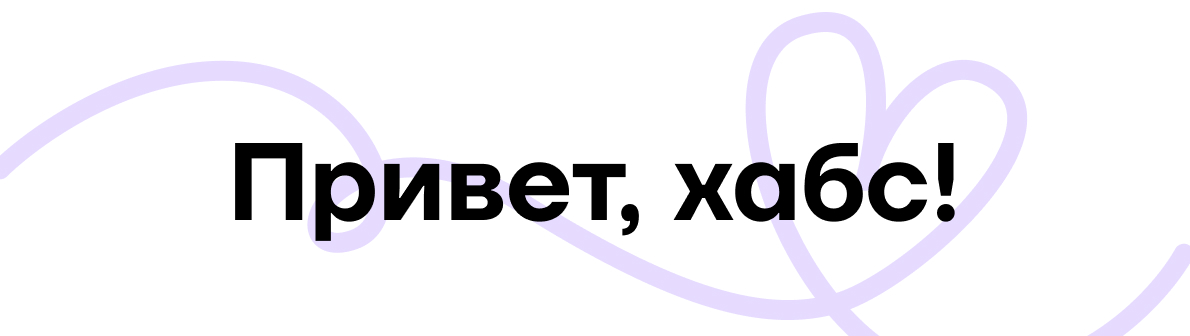
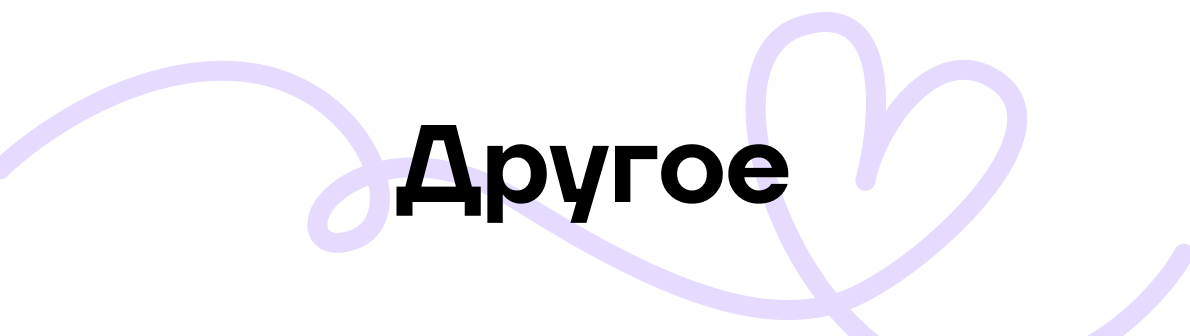
feat: добавил категории и базовые тексты, добавил кнопку срочной помощи

Changed region(s): [[0.1866, 0.3571, 0.8084, 0.7143], [0.4975, 0.6845, 0.5286, 0.7143]]

diff --git a/src/utils/categories.py b/src/utils/categories.py
@@ -11,7 +11,7 @@ CATEGORIES = {
         text=(
             "Если тебя интересует один из перечисленных вопросов — тебе необходимо обратиться в Учебный отдел📚\n"
             "Он находится на 4-ом этаже рядом с аудиторией 4.2."
-    )
+        )
     ),
     "Учебный процесс": CategoryInfo(
         image="assets/images/study.jpg",
@@ -34,10 +34,28 @@ CATEGORIES = {
             "Он находится на третьем этаже рядом с коворкингом."
         )
     ),
-
     "Другое": CategoryInfo(
         image="assets/images/other.jpg",
         text="Если ни один из пунктов тебе не подошел, можешь ознакомиться с нашим дополнительным меню:"
     )
 }
+
+START_INFO = CategoryInfo(
+    image="assets/images/welcome.jpg",
+    text=(
+        "Привет, {full_name}!\n"
+        "Мы знаем, что у тебя могло возникнуть множество вопросов, и с радостью готовы помочь тебе их решить 💜\n\n"
+        "Выбери категорию, к которой относится твой вопрос:"
+    )
+)
+
+FEEDBACK_NOTIFICATION_TEMPLATE = (
+    "Новое обращение от {sender_display_name}:\n"
+    "Категория: {category}\n\n"
+    "{message_text}"
+)
+
+ACKNOWLEDGMENT_CAPTION = "Спасибо! Твое сообщение отправлено в службу поддержки."
+ACKNOWLEDGMENT_IMAGE_PATH = "assets/images/support_received.jpg"
+
 CATEGORIES_LIST = list(CATEGORIES.keys())

diff --git a/src/handlers/feedback.py b/src/handlers/feedback.py
@@ -5,6 +5,11 @@ from src.utils.config import GROUP_CHAT_ID
 from src.utils.logger import setup_logger
 from src.services.redis_client import redis_client, can_create_new_feedback, lock_feedback
 from src.services.google_sheets import append_feedback_to_sheet
+from src.utils.categories import (
+    FEEDBACK_NOTIFICATION_TEMPLATE,
+    ACKNOWLEDGMENT_CAPTION,
+    ACKNOWLEDGMENT_IMAGE_PATH,
+)
 
 logger = setup_logger(__name__)
 
@@ -38,9 +43,10 @@ async def feedback_message_handler(message: Message):
     full_name = message.from_user.full_name
     sender_display_name = f"@{username}" if (is_named and username) else (full_name if is_named else "Анонимус")
 
-    text = (
-        f"Новое обращение от {sender_display_name}:\n"
-        f"Категория: {category}\n\n{message.text}"
+    text = FEEDBACK_NOTIFICATION_TEMPLATE.format(
+        sender_display_name=sender_display_name,
+        category=category,
+        message_text=message.text,
     )
 
     # Отправляем в группу поддержки
@@ -92,9 +98,8 @@ async def feedback_message_handler(message: Message):
     except Exception as e:
         logger.warning(f"Failed to delete user message: {e}")
 
-    # Показываем подтверждение отправки пользователю
-    ack_caption = "Спасибо! Твое сообщение отправлено в службу поддержки."
-    ack_photo = FSInputFile("assets/images/other.jpg")
+    ack_caption = ACKNOWLEDGMENT_CAPTION
+    ack_photo = FSInputFile(ACKNOWLEDGMENT_IMAGE_PATH)
     back_btn = InlineKeyboardMarkup(
         inline_keyboard=[[InlineKeyboardButton(text="⬅ Назад", callback_data="back_to_main")]]
     )

diff --git a/src/handlers/start.py b/src/handlers/start.py
@@ -2,19 +2,15 @@ from aiogram.types import Message, FSInputFile
 from src.keyboard import get_main_keyboard
 from src.utils.media_utils import save_feedback_state
 from src.utils.logger import setup_logger
+from src.utils.categories import START_INFO  
 
 logger = setup_logger(__name__)
 
 async def start_handler(message: Message):
     logger.info(f"/start received from user {message.from_user.id}")
     
-    caption = (
-        f"Привет, {message.from_user.full_name}!\n"
-        "Мы знаем, что у тебя могло возникнуть множество вопросов, и с радостью готовы помочь тебе их решить 💜\n\n"
-        "Выбери категорию, к которой относится твой вопрос:"
-    )
-    
-    photo = FSInputFile("assets/images/other.jpg")
+    caption = START_INFO.text.format(full_name=message.from_user.full_name)
+    photo = FSInputFile(START_INFO.image)
     
     sent = await message.answer_photo(
         photo=photo,
@@ -24,4 +20,3 @@ async def start_handler(message: Message):
     
     await save_feedback_state(message.from_user.id, menu_message_id=sent.message_id)
     logger.info(f"Sent start photo message id={sent.message_id} to user {message.from_user.id}")
-

diff --git a/src/keyboard.py b/src/keyboard.py
@@ -15,7 +15,7 @@ def get_submenu_keyboard(category: str):
         buttons = [
             InlineKeyboardButton(text="Проблемы с техникой", callback_data="Проблемы с техникой"),
             InlineKeyboardButton(text="Обратная связь", callback_data="Обратная связь"),
-
+            InlineKeyboardButton(text="Срочная помощь", callback_data="urgent_help"), 
         ]
 
     buttons.append(InlineKeyboardButton(text="⬅ Назад", callback_data="back_to_main"))
